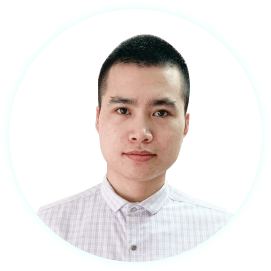
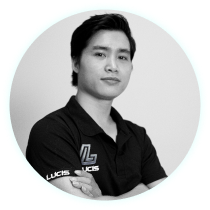
update ui landing

diff --git a/components/Home/CardTeam/CardTeam.module.sass b/components/Home/CardTeam/CardTeam.module.sass
@@ -1,184 +1,58 @@
-@import "styles/common"
-
 .containerTeam
-  @apply flex flex-col items-center
-  min-width: 282px
-  margin: 24px 0px
+  display: flex
+  flex-flow: column
+  justify-content: center
+  flex: 45% 0 0
+  margin: 20px 0px
+  @media (min-width: 992px)
+    flex: 18% 0 0
   .content_im
-    min-height: 256px
-    background: linear-gradient(99.92deg, #CD28E8 0%, #0BEBD6 100%)
-    border-radius: 100%
-    width: 256px
-    @apply h-full relative
+    position: relative
+    display: flex
+    justify-content: center
     .im_team
-      display: flex
-      flex-direction: column
-      align-items: center
-      width: 250px
-      border-radius: 100%
-      overflow: hidden
-      padding-top: 15px
-    .bg_team
       position: absolute
-      top: 0
-      left: 0
-    .im_team1
-      padding-left: 2px
-      padding-top: 0px
-      img
-        max-width: 115%
-        top: -12px
-        left: -2px
-        position: absolute
-        filter: drop-shadow(0px 0px 8px rgba(155, 251, 242, 0.37))
-  .heading_team
-    padding-top: 26px
-    text-align: center
-    .name
-      @include my-text(24px, 1, 700)
-      color: #00CDFC
-      font-family: 'Transformer'
-      margin-bottom: 0 !important
-      padding-top: 4px
-    .team
-      @include my-text(24px, 28px, 400)
-      color: #FFFFFF
-      padding-top: 0.5em
-      display: inline-block
+      top: 50%
+      left: 50%
+      transform: translate(-50%, -50%)
+      width: 110px
+      @media (min-width: 414px)
+        width: 130px
+      @media (min-width: 540px)
+        width: 160px
+      @media (min-width: 640px)
+        width: 190px
+      @media (min-width: 768px)
+        width: 200px
       @media (min-width: 992px)
-        font-size: 13px
-    .blockName
-      @apply flex flex-row items-center justify-center
-      img
-        padding-right: 0.8em
-
-
-
-@media (min-width: 992px)
-  .containerTeam
-    .content_im
-      width: 153px
-      min-height: 153px
-  .im_team1
-    img
-      max-width: 104% !important
-      top: -6px !important
-      left: 0px !important
-@media (min-width: 1280px)
-  .containerTeam
-    .content_im
-      width: 180px
-      min-height: 180px
-    .im_team1
-      img
-        max-width: 115%
-        top: -12px !important
-        left: -2px !important
-    .heading_team
-      .name
-        font-size: 20px
-      .team
-        font-size: 16px
-@media (min-width: 1440px)
-  .containerTeam
-    .content_im
-      width: 200px
-      min-height: 200px
-    .im_team1
-      img
-        max-width: 115%
-        top: -12px !important
-        left: -2px !important
-    .heading_team
-      .name
-        font-size: 20px
-      .team
+        width: 110px
+      @media (min-width: 1280px)
+        width: 140px
+      @media (min-width: 1440px)
+        width: 160px
+  .heading_team
+    display: flex
+    align-items: center
+    justify-content: center
+    text-align: center
+    padding-top: 10px
+    span
+      font-style: normal
+      font-weight: 400
+      font-size: 12px
+      line-height: 130%
+      text-align: center
+      color: #FFFFFF
+      @media (min-width: 640px)
         font-size: 16px
 
-@media (min-width: 992px)
-  .containerTeam
-    min-width: 18%
-    max-width: 18%
-    margin: 12px 0px
-    .content_im
-      .im_team
-        width: 96%
-        padding-top: 9px
-        padding-left: 2px
-      .im_team1
-        width: 94%
-        padding: 11px 0px 0px 10px !important
-
-@media (min-width: 541px) and (max-width: 639px)
-  .containerTeam
-    max-width: 220px
-    min-width: 48%
-    margin: 20px 0px
-    .content_im
-      width: 200px
-      min-height: 200px
-      .im_team
-        width: 206px
-        margin-left: 3px
-        padding-top: 13px
-      .im_team1
-        padding-left: 14px
-        padding-top: 8px
-        img
-          filter: drop-shadow(0px 0px 7px rgba(155, 251, 242, 0.37))
-          max-width: 104% !important
-          top: -6px !important
-          left: 0px !important
-    .heading_team
-      .name
-        font-size: 20px !important
-      .team
-        font-size: 20px
-@media (min-width: 0px) and (max-width: 540px)
-  .containerTeam
-    min-width: 47%
-    max-width: 47%
-    margin: 12px 0px
-    .content_im
-      width: 135px
-      min-height: 135px
-      .im_team
-        width: 95%
-        padding-top: 9px
-        padding-left: 2px
-      .im_team1
-        width: 94%
-        padding: 10px 0px 0px 8px !important
-        img
-          max-width: 104% !important
-          top: -4px !important
-          left: -2px !important
-
-          filter: drop-shadow(0px 0px 7px rgba(155, 251, 242, 0.37))
-
-    .heading_team
-      .name
-        font-size: 18px
-      .team
-        font-size: 13px
-  
-    .blockName
       a
-        width: 100%
-
-@media (min-width: 414px) and (max-width: 540px)
-  .containerTeam
-    .content_im
-      width: 180px
-      min-height: 180px
-      .im_team
-        width: 95%
-        padding-top: 9px
-        padding-left: 2px
-      .im_team1
-        width: 94%
-        padding: 10px 0px 0px 8px !important
-        img
-          top: 0px
-          left: 0px
-          filter: drop-shadow(0px 0px 7px rgba(155, 251, 242, 0.37))
+        font-family: 'Transformer'
+        font-style: normal
+        font-weight: 700
+        font-size: 16px
+        line-height: 115%
+        text-align: center
+        color: #00CDFC
+        @media (min-width: 640px)
+          font-size: 20px

diff --git a/components/Home/CardTeam/CardTeam.tsx b/components/Home/CardTeam/CardTeam.tsx
@@ -11,22 +11,18 @@ type Props = {
   setLinkin?: boolean;
 };
 
-export default function CardTeam(props: Props) {
+export default function c(props: Props) {
   const bg_Team =
     props.statusCard == 1
-      ? "/assets/Team/vector_team.svg"
-      : props.statusCard == 2
-      ? "/assets/Team/bg_2.svg"
-      : props.statusCard == 3
-      ? "/assets/Team/bg_3.svg"
-      : "/assets/Team/bg_4.svg";
+      ? "/assets/Team/bg_team.png"
+      : "/assets/Team/bg_av.png"
+
   const styleLinkIn = props.setLinkin == true ? {display:'block'} :{display:'none'}
-  const im_team = props.statusCard == 1 ? s.im_team1 : s.im_team;
 
   return (
     <div className={s.containerTeam}>
       <div className={s.content_im}>
-        <div className={im_team}>
+        <div className={s.im_team}>
           <AnimWhenVisible
             variants={{
               visible: { opacity: 1 },
@@ -39,6 +35,7 @@ export default function CardTeam(props: Props) {
         </div>
         <img className={s.bg_team} src={bg_Team} alt="" />
       </div>
+
       <div className={s.heading_team}>
         <AnimWhenVisible enable={props.enableAnim}>
           <div className={s.blockName}>

diff --git a/components/Chart/chart.module.css b/components/Chart/chart.module.css
@@ -31,6 +31,12 @@
 @media (min-width: 0px){
   .chartContainer{
     width: 100%;
+    display: flex;
+    justify-content: center;
+  }
+  .chartContainer img {
+    max-width: 500px;
+    padding-top: 60px;
   }
   .im_token {
     width: 100%;
@@ -41,9 +47,30 @@
   .chartContainer{
     flex: 32%;
   }
+  .chartContainer img{
+    padding-left: 0px;
+  }
   .im_token {
-    padding-right: 120px;
     flex: 32%;
+  }
+}
+@media (min-width: 992px){
+  .chartContainer{
+    justify-content: flex-end;
+  }
+  .chartContainer img{
+    padding-left: 120px;
+    padding-top: 0px
+  }
+  .im_token{
+    padding-right: 60px;
+  }
+
+
+}
+@media (min-width: 1280px){
+  .chartContainer img{
+    padding-left: 20px;
   }
 }
 @media (max-width: 767px){
@@ -102,9 +129,6 @@
     max-width: 100% !important;
     align-items: center;
     margin-top: 50px;
-  }
-  .highchartsFigure img{
-    max-width: 100% !important
   }
 }
 

diff --git a/components/Home/Slider/Slide_Advisor/SlideTeam.tsx b/components/Home/Slider/Slide_Advisor/SlideTeam.tsx
@@ -53,7 +53,7 @@ export default class SimpleSliderAdvisor extends Component {
                 srcImg="/assets/Team/nam.png"
                 setLinkin={true}
                 srcLinkedIn="https://www.linkedin.com/in/nam-ng-175689127/"
-                statusCard={1}
+                statusCard={2}
                 nameTeam="Nam Nguyen"
                 serviceTeam="Growth Advisor"
               />
@@ -61,7 +61,7 @@ export default class SimpleSliderAdvisor extends Component {
                 srcImg="/assets/Team/dat.png"
                 setLinkin={true}
                 // srcLinkedIn="https://www.linkedin.com/in/nam-ng-175689127/"
-                statusCard={1}
+                statusCard={2}
                 nameTeam="Mai Xuan Đat"
                 serviceTeam="Marketing & OKR Advisor"
               />

diff --git a/components/Home/Backers.tsx b/components/Home/Backers.tsx
@@ -30,6 +30,15 @@ export default function PartnersStrategic(props: Props) {
           <div className={s.item_backer}>
             <img src="/assets/backer/epic.png" alt="" />
           </div>
+          <div className={s.item_backer}>
+            <img src="/assets/backer/partner_7.png" alt="" />
+          </div>
+          <div className={s.item_backer}>
+            <img src="/assets/backer/partner_8.png" alt="" />
+          </div>
+          <div className={s.item_backer}>
+            <img src="/assets/backer/partner_9.png" alt="" />
+          </div>
       </div>
     </section>
   )

diff --git a/components/Features.tsx b/components/Features.tsx
@@ -101,7 +101,7 @@ const datas = [
   // },
   {
     id: 7,
-    titleH1: "Lucis Play-to-earn 2.0 (Zone 1)",
+    titleH1: "Lucis PlayCore (Zone 1)",
     titleP: `
       <p>
         Our unique Play-to-earn 2.0 Platform allows players of all skill levels to participate and reap the benefits 
@@ -119,7 +119,7 @@ const datas = [
   },
   {
     id: 8,
-    titleH1: "Lucis Tournaments Platform (Zone 2)",
+    titleH1: "Arena (Zone 2)",
     titleP: `
       <b>
         Competitive play 

diff --git a/components/Chart/index.tsx b/components/Chart/index.tsx
@@ -224,7 +224,7 @@ export default function PieChart() {
         />
       </div>
       <div id="chart-container" className={style.chartContainer} >
-        <img src="/assets/token_allocation/im_chart.svg" alt="" />
+        <img src="/assets/token_allocation/img_chart.png" alt="" />
       </div>
     </div>
   );

diff --git a/components/Home/Slider/SliderFeature/Slide_Team/SlideTeam.tsx b/components/Home/Slider/SliderFeature/Slide_Team/SlideTeam.tsx
@@ -11,7 +11,7 @@ const GROUPS = [
     {
       name: "Anh Tran",
       position: "CEO",
-      img:"/assets/Team/tu_anh.png",
+      img:"/assets/Team/tu_a.png",
       status: true,
       linkIn:"https://www.linkedin.com/in/tuanhbeu"
     },
